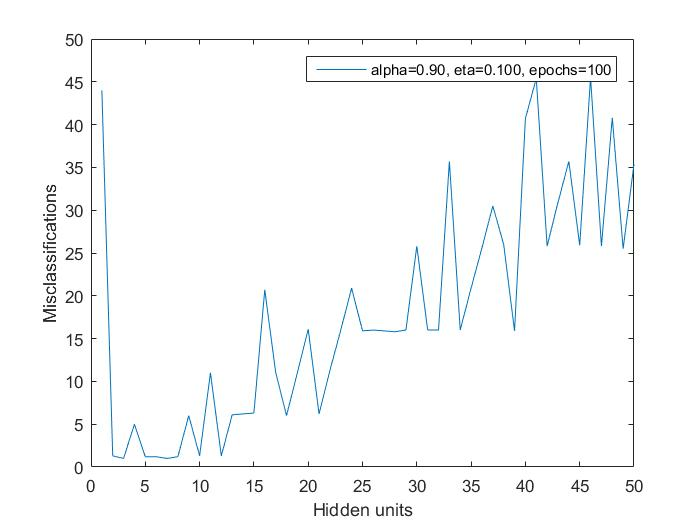
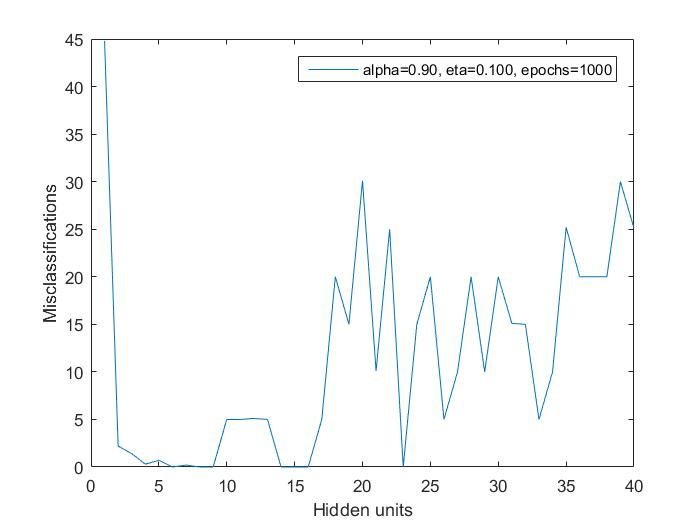
Add section 6 and plots

diff --git a/Lab1/main.m b/Lab1/main.m
@@ -14,13 +14,13 @@ legend(sprintf('eta=%.3f, epochs=%d', eta, epochs));
 [patterns, targets] = nsepdata();
 hiddenMax = 40;
 eta = 0.1;
-epochs = 100;
+epochs = 1000;
 alpha = 0.9;
 errors = ones(1, hiddenMax);
 for hidden = 1:hiddenMax
+    fprintf('Number of hidden units: #%d\n', hidden);
     temperror = [];
     for count = 1:10
-        %fprintf('Number of hidden units: #%d\n', hidden);
         [v,w,error] = backprop(patterns, targets, hidden, alpha, eta, epochs);
         temperror(end+1) = error(end);
     end
@@ -31,9 +31,10 @@ xlabel('Hidden units')
 ylabel('Misclassifications')
 legend(sprintf('alpha=%.2f, eta=%.3f, epochs=%d',alpha, eta, epochs));
 %% Error 4 hidden units
+clear all
 [patterns, targets] = nsepdata();
 eta = 0.1;
-epochs = 100;
+epochs = 1000;
 alpha = 0.9;
 [v,w,error] = backprop(patterns, targets,4 , alpha, eta, epochs);
 plot(1:epochs, error)
@@ -46,7 +47,6 @@ epochs = 5000;
 alpha = 0.9;
 patterns = eye(8) * 2 - 1;
 targets = patterns;
-errors = [];
 [v,w,error] = backprop(patterns, targets, 3, alpha, eta, epochs);
 fprintf('Error=%d\n', error(end));
 sign(w)
@@ -57,13 +57,83 @@ ylabel('Misclassifications')
 legend(sprintf('alpha=%.2f, eta=%.3f, epochs=%d',alpha, eta, epochs));
 
 %% 5 Function approximation
-eta = 0.01;
-epochs = 1000;
+clear all
+eta = 0.15;
+epochs = 200;
 alpha = 0.9;
-hidden = 4;
+[patterns, targets, gridsize, x, y, z] = gaussiandata(0);
+
+%% Hidden units error
+hiddenMax = 50;
+errors = ones(1, hiddenMax);
+for hidden = 1:hiddenMax
+    fprintf('Number of hidden units: #%d\n', hidden);
+    temperror = zeros(1,10);
+    for count = 1:10
+        [v,w,error] = backprop_gaussian(patterns, targets, hidden, alpha, eta, epochs, gridsize, x, y, false);
+        temperror(count) = error(end);
+    end
+    errors(hidden) = mean(temperror);
+end
+plot(1:hiddenMax, errors)
+xlabel('Hidden units')
+ylabel('L1 error')
+legend(sprintf('alpha=%.2f, eta=%.3f, epochs=%d',alpha, eta, epochs));
+%% Eta error
+etas = 0.0001:0.0001:0.01;
+errors = [];
+
+for eta = etas
+    fprintf('Eta: #%d\n', eta);
+    temperror = zeros(1,10);
+    for count = 1:10
+        [v,w,error] = backprop_gaussian(patterns, targets, hidden, alpha, eta, epochs, gridsize, x, y, false);
+        temperror(count) = error(end);
+    end
+    errors(end+1) = mean(temperror);
+end
+%%
+plot(etas, errors)
+xlabel('Eta')
+ylabel('L1 Error')
+legend(sprintf('alpha=%.2f,epochs=%d,hidden=%d',alpha, epochs,hidden));
+%% Plot change
+hidden = 2;
+[v,w,error] = backprop_gaussian(patterns, targets, hidden, alpha, eta, epochs, gridsize, x, y, true);
+legend(sprintf('alpha=%.2f,epochs=%d,hidden=%d,eta=%.3f',alpha, epochs,hidden,eta));
+error(end)
+%plot(1:epochs, error)
+
+
+%% 6 Generalization
+clear all
+eta = 0.05;
+epochs = 500;
+alpha = 0.9;
+n = 25;
+hidden = 30;
+
+% Keep n samples
 [patterns, targets, gridsize, x, y, z] = gaussiandata();
-[v,w,error] = backprop_gaussian(patterns, targets, hidden, alpha, eta, epochs, gridsize, x, y);
+[~, ndata] = size(targets);
+permute = randperm(ndata);
+new_patterns = patterns(:, permute);
+new_targets = targets(:, permute);
+new_patterns = new_patterns(:, 1:n);
+new_targets = new_targets(:, 1:n);
+    
+[v,w,error] = backprop_gaussian(new_patterns, new_targets, hidden, alpha, eta, epochs, gridsize, x, y, false);
 
-
+% Test error
+[z_row, z_col] = size(z);
+hin = w * [patterns; ones(1, ndata)];
+hout = [2 ./ (1+exp(-hin)) - 1 ; ones(1,ndata)];
+oin = v * hout;
+out = 2 ./ (1+exp(-oin)) - 1;
+zz = reshape(out, z_row, z_col);
+mesh(x, y, zz);
+axis([-5 5 -5 5 -0.7 0.7]);
+drawnow;
+legend(sprintf('n=%d,hidden=%d,alpha=%.2f, eta=%.3f, epochs=%d',n,hidden,alpha, eta, epochs));
 
 

diff --git a/Lab1/backprop_gaussian.m b/Lab1/backprop_gaussian.m
@@ -1,4 +1,4 @@
-function [v,w,error] = backprop_gaussian(patterns, targets, hidden, alpha, eta, epochs, gridsize, x, y)
+function [v,w,error] = backprop_gaussian(patterns, targets, hidden, alpha, eta, epochs, gridsize, x, y, plot)
     [outsize, ndata] = size(targets);
     [insize, ndata] = size(patterns); 
     w = randn(hidden, insize + 1); 
@@ -24,17 +24,15 @@ function [v,w,error] = backprop_gaussian(patterns, targets, hidden, alpha, eta, 
         dv = (dv .* alpha) - (delta_o * hout') .* (1-alpha);
         w = w + dw .* eta;
         v = v + dv .* eta;
-        error(epoch) = sum(sum(abs(sign(out) - targets)./2));
-        
-        if (mod(epoch,100)== 0)
-            fprintf('Epochs: #%d\n', epoch);
-        end
+        error(epoch) = sum(sum(abs((out) - targets)));
         %% Plot change
-        zz = reshape(out, gridsize, gridsize);
-        mesh(x,y,zz);
-        axis([-5 5 -5 5 -0.7 0.7]);
-        drawnow;
-
+        if (plot)
+            if (mod(epoch,100)== 0) fprintf('Epochs: #%d\n', epoch); end
+            zz = reshape(out, gridsize, gridsize);
+            mesh(x,y,zz);
+            axis([-5 5 -5 5 -0.7 0.7]);
+            drawnow;
+        end
     end
 end
 

diff --git a/Lab1/gaussiandata.m b/Lab1/gaussiandata.m
@@ -9,5 +9,5 @@ function [patterns, targets, gridsize, x, y, z] = gaussiandata()
     [xx, yy] = meshgrid (x, y);
 
     patterns = [reshape(xx, 1, ndata); reshape(yy, 1, ndata)];
-    gridsize = z_row;
+    gridsize = z_row;   
 end
